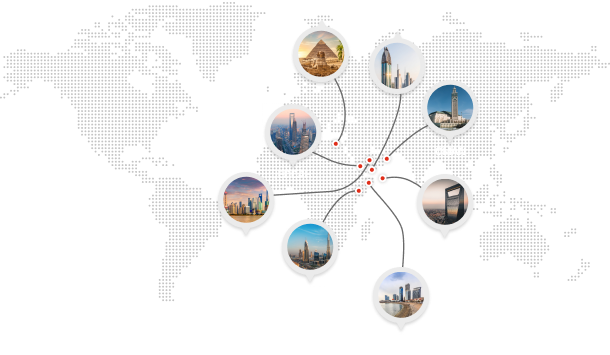
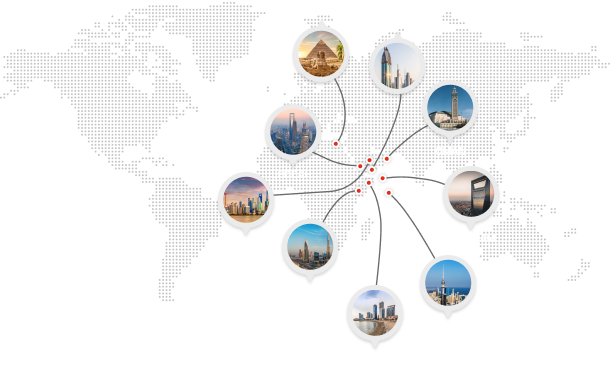
event detail page modification

diff --git a/css/style.css b/css/style.css
@@ -4797,10 +4797,10 @@ color: #fff !important;
 
 .footer-map .egypt{
     position: absolute;
-    top: 24px;
-    left: 44.5%;
-    width: 62px;
-    height: 62px;
+    top: 25px;
+    left: 45%;
+    width: 58px;
+    height: 58px;
     background-color: transparent;
     border-radius: 50px;
     cursor: pointer;
@@ -4810,8 +4810,8 @@ color: #fff !important;
     position: absolute;
     top: 10%;
     left: 56.5%;
-    width: 62px;
-    height: 62px;
+    width: 58px;
+    height: 58px;
     background-color: transparent;
     border-radius: 50px;
     cursor: pointer;
@@ -4820,9 +4820,20 @@ color: #fff !important;
 .footer-map .oman{
     position: absolute;
     top: 21.5%;
-    left: 64%;
-    width: 62px;
-    height: 62px;
+    left: 64.5%;
+    width: 58px;
+    height: 58px;
+    background-color: transparent;
+    border-radius: 50px;
+    cursor: pointer;
+}
+
+.footer-map .kuwait{
+    position: absolute;
+    top: 69.3%;
+    left: 64.5%;
+    width: 58px;
+    height: 58px;
     background-color: transparent;
     border-radius: 50px;
     cursor: pointer;
@@ -4830,10 +4841,10 @@ color: #fff !important;
 
 .footer-map .dammam{
     position: absolute;
-    top: 47.5%;
-    left: 63.5%;
-    width: 62px;
-    height: 62px;
+    top: 45%;
+    left: 68%;
+    width: 58px;
+    height: 58px;
     background-color: transparent;
     border-radius: 50px;
     cursor: pointer;
@@ -4841,10 +4852,10 @@ color: #fff !important;
 
 .footer-map .bahrain{
     position: absolute;
-    top: 74%;
-    left: 56.5%;
-    width: 62px;
-    height: 62px;
+    top: 77%;
+    left: 53.2%;
+    width: 58px;
+    height: 58px;
     background-color: transparent;
     border-radius: 50px;
     cursor: pointer;
@@ -4852,20 +4863,20 @@ color: #fff !important;
 
 .footer-map .dubai{
     position: absolute;
-    top: 60%;
-    left: 43%;
-    width: 62px;
-    height: 62px;
+    top: 59%;
+    left: 43.1%;
+    width: 58px;
+    height: 58px;
     background-color: transparent;
     border-radius: 50px;
     cursor: pointer;
 }
 .footer-map .qatar{
     position: absolute;
-    top: 47%;
-    left: 33%;
-    width: 62px;
-    height: 62px;
+    top: 46.5%;
+    left: 33.3%;
+    width: 58px;
+    height: 58px;
     background-color: transparent;
     border-radius: 50px;
     cursor: pointer;
@@ -4874,9 +4885,9 @@ color: #fff !important;
 .footer-map .jeddah{
     position: absolute;
     top: 28%;
-    left: 40%;
-    width: 62px;
-    height: 62px;
+    left: 40.4%;
+    width: 58px;
+    height: 58px;
     background-color: transparent;
     border-radius: 50px;
     cursor: pointer;
@@ -4926,13 +4937,19 @@ color: #fff !important;
     transition: 1.5s;
 }
 
-.footer-map .dammam:hover .loc-tooltip{
+.footer-map .kuwait:hover .loc-tooltip{
     bottom: 0px;
     opacity: 1;
     z-index: 1;
     transition: 1.5s;
 }
 
+.footer-map .dammam:hover .loc-tooltip{
+    bottom: 0px;
+    opacity: 1;
+    z-index: 1;
+    transition: 1.5s;
+}
 .footer-map .bahrain:hover .loc-tooltip{
     bottom: 0px;
     opacity: 1;
@@ -4959,4 +4976,16 @@ color: #fff !important;
     opacity: 1;
     z-index: 1;
     transition: 1s;
+}
+
+.client-detail-div h3{
+    font-weight: 600;
+    font-size: 17px;
+}
+
+.client-detail-div h3 span{
+    color: #999999;
+    margin-left: 3px;
+    font-weight: 500;
+    font-size: 15px;
 }

diff --git a/event-detail.php b/event-detail.php
@@ -69,25 +69,6 @@
       <div class="row">
         <div class="col-lg-3">
           <div class="left-category-box aos-animate" data-aos="fade-up" data-aos-duration="1000">
-            <h5 class="category-sub-head">Countries</h5>
-            <ul class="tag-lists">
-              <li>India</li>
-              <li>USA</li>
-              <li>KSA</li>
-              <li>UK</li>
-              <li>Germany</li>
-            </ul>
-            <h5 class="category-sub-head">Industries</h5>
-            <ul class="tag-lists mb-2">
-              <li>IT & Technology</li>
-              <li>Education & Training</li>
-              <li>Entertainment</li>
-              <li>Construction</li>
-             
-              
-            </ul>
-          </div>
-          <div class="left-category-box aos-animate" data-aos="fade-up" data-aos-duration="1000">
             <h5 class="category-sub-head">Recent Events</h5>
             <a href="#">
             <div class="row d-flex align-items-center mt-3">
@@ -159,8 +140,48 @@
                 </div>
               </div>
             </div></a>
-
-
+            <a href="#">
+            <div class="row d-flex align-items-center mt-3">
+              <div class="col-lg-5">
+                <div class="rec-artcls">
+                  <img src="img/client3.svg" alt="" class="img-fluid">
+                </div>
+              </div>
+              <div class="col-lg-7 ps-md-0">
+                <div class="rec-artcls-dtls">
+                  <h4>Navigation the future of a Web Devolvement...</h4>
+                  <h6>4 MARCH, 2022</h6>
+                </div>
+              </div>
+            </div></a>
+            <a href="#">
+            <div class="row d-flex align-items-center mt-3">
+              <div class="col-lg-5">
+                <div class="rec-artcls">
+                  <img src="img/client1.svg" alt="" class="img-fluid">
+                </div>
+              </div>
+              <div class="col-lg-7 ps-md-0">
+                <div class="rec-artcls-dtls">
+                  <h4>Navigation the future of a Web Devolvement...</h4>
+                  <h6>4 MARCH, 2022</h6>
+                </div>
+              </div>
+            </div></a>
+            <a href="#">
+            <div class="row d-flex align-items-center mt-3">
+              <div class="col-lg-5">
+                <div class="rec-artcls">
+                  <img src="img/client2.svg" alt="" class="img-fluid">
+                </div>
+              </div>
+              <div class="col-lg-7 ps-md-0">
+                <div class="rec-artcls-dtls">
+                  <h4>Navigation the future of a Web Devolvement...</h4>
+                  <h6>4 MARCH, 2022</h6>
+                </div>
+              </div>
+            </div></a>
           </div>
       
         </div>
@@ -173,7 +194,7 @@
                     <img src="img/client1.svg" alt="">
                   </div>
                   <h5>Exposure Math - Capture Any Photography Genre 2023</h5>
-    
+                  <h3>Industry : <span>IT & Technology</span></h3>
                 </div>
               </div>
               <div class="col-lg-4">

diff --git a/footer.php b/footer.php
@@ -114,43 +114,49 @@
             <div class="riyad">
               <div class="loc-tooltip">
                 <h6>Riyad</h6>
-                <p>24 B El Zahraa St., New Nerco Bldgs, Maadi, Cairo, Egypt</p>
+                <p>24 B El Zahraa St., New Nerco Bldgs, Maadi, Cairo, Riyad</p>
               </div>
             </div>
             <div class="oman">
               <div class="loc-tooltip">
                 <h6>Oman</h6>
-                <p>24 B El Zahraa St., New Nerco Bldgs, Maadi, Cairo, Egypt</p>
+                <p>24 B El Zahraa St., New Nerco Bldgs, Maadi, Cairo, Oman</p>
               </div>
             </div>
             <div class="dammam">
               <div class="loc-tooltip">
                 <h6>Dammam</h6>
-                <p>24 B El Zahraa St., New Nerco Bldgs, Maadi, Cairo, Egypt</p>
+                <p>24 B El Zahraa St., New Nerco Bldgs, Maadi, Cairo, Dammam</p>
+              </div>
+            </div>
+            <div class="kuwait">
+              <div class="loc-tooltip">
+                <h6>Kuwait</h6>
+                <p>24 B El Zahraa St., New Nerco Bldgs, Maadi, Cairo, Kuwait</p>
               </div>
             </div>
             <div class="bahrain">
               <div class="loc-tooltip">
                 <h6>Bahrain</h6>
-                <p>24 B El Zahraa St., New Nerco Bldgs, Maadi, Cairo, Egypt</p>
+                <p>24 B El Zahraa St., New Nerco Bldgs, Maadi, Cairo, Bahrain</p>
               </div>
             </div>
             <div class="dubai">
               <div class="loc-tooltip">
                 <h6>Dubai</h6>
-                <p>24 B El Zahraa St., New Nerco Bldgs, Maadi, Cairo, Egypt</p>
+                <p>24 B El Zahraa St., New Nerco Bldgs, Maadi, Cairo, Dubai</p>
               </div>
             </div>
             <div class="qatar">
               <div class="loc-tooltip">
                 <h6>Qatar</h6>
-                <p>24 B El Zahraa St., New Nerco Bldgs, Maadi, Cairo, Egypt</p>
+                <p>24 B El Zahraa St., New Nerco Bldgs, Maadi, Cairo, Qatar</p>
               </div>
             </div>
             <div class="jeddah">
               <div class="loc-tooltip">
                 <h6>Jeddah</h6>
-                <p>24 B El Zahraa St., New Nerco Bldgs, Maadi, Cairo, Egypt</p>
+                <p>24 B El Zahraa St., New Nerco Bldgs, Maadi, Cairo, Jeddah</p>
               </div>
             </div>
           </div>

diff --git a/index.php b/index.php
@@ -536,7 +536,7 @@
         </div>
         <div class="event-box2">
           <div class="event-info">
-            <h3>Exposure Math - Capture Any Photography Genre</h3>
+            <h3><a href="event-detail.php">Exposure Math - Capture Any Photography Genre</a></h3>
             <h5><img src="img/location.svg" alt="">Akshya Nagar 1st Block 1st Cross, Rammurthy nagar, Saudi Arabia-560016</h5>
           </div>
         </div>
@@ -553,7 +553,7 @@
           </div>
         </div>
         <div class="event-box5">
-          <a href="event-listing.php">
+          <a href="event-detail.php">
           <button type="button" class="main-home-btn">
             View More
           </button>
@@ -566,7 +566,7 @@
         </div>
         <div class="event-box2">
           <div class="event-info">
-            <h3>Exposure Math - Capture Any Photography Genre</h3>
+            <h3><a href="event-detail.php">Exposure Math - Capture Any Photography Genre</a></h3>
             <h5><img src="img/location.svg" alt="">Akshya Nagar 1st Block 1st Cross, Rammurthy nagar, Saudi Arabia-560016</h5>
           </div>
         </div>
@@ -583,7 +583,7 @@
           </div>
         </div>
         <div class="event-box5">
-          <a href="event-listing.php">
+          <a href="event-detail.php">
             <button type="button" class="main-home-btn">
               View More
             </button>
@@ -596,7 +596,7 @@
         </div>
         <div class="event-box2">
           <div class="event-info">
-            <h3>Exposure Math - Capture Any Photography Genre</h3>
+            <h3><a href="event-detail.php">Exposure Math - Capture Any Photography Genre</a></h3>
             <h5><img src="img/location.svg" alt="">Akshya Nagar 1st Block 1st Cross, Rammurthy nagar, Saudi Arabia-560016</h5>
           </div>
         </div>
@@ -613,7 +613,7 @@
           </div>
         </div>
         <div class="event-box5">
-          <a href="event-listing.php">
+          <a href="event-detail.php">
             <button type="button" class="main-home-btn">
               View More
             </button>
